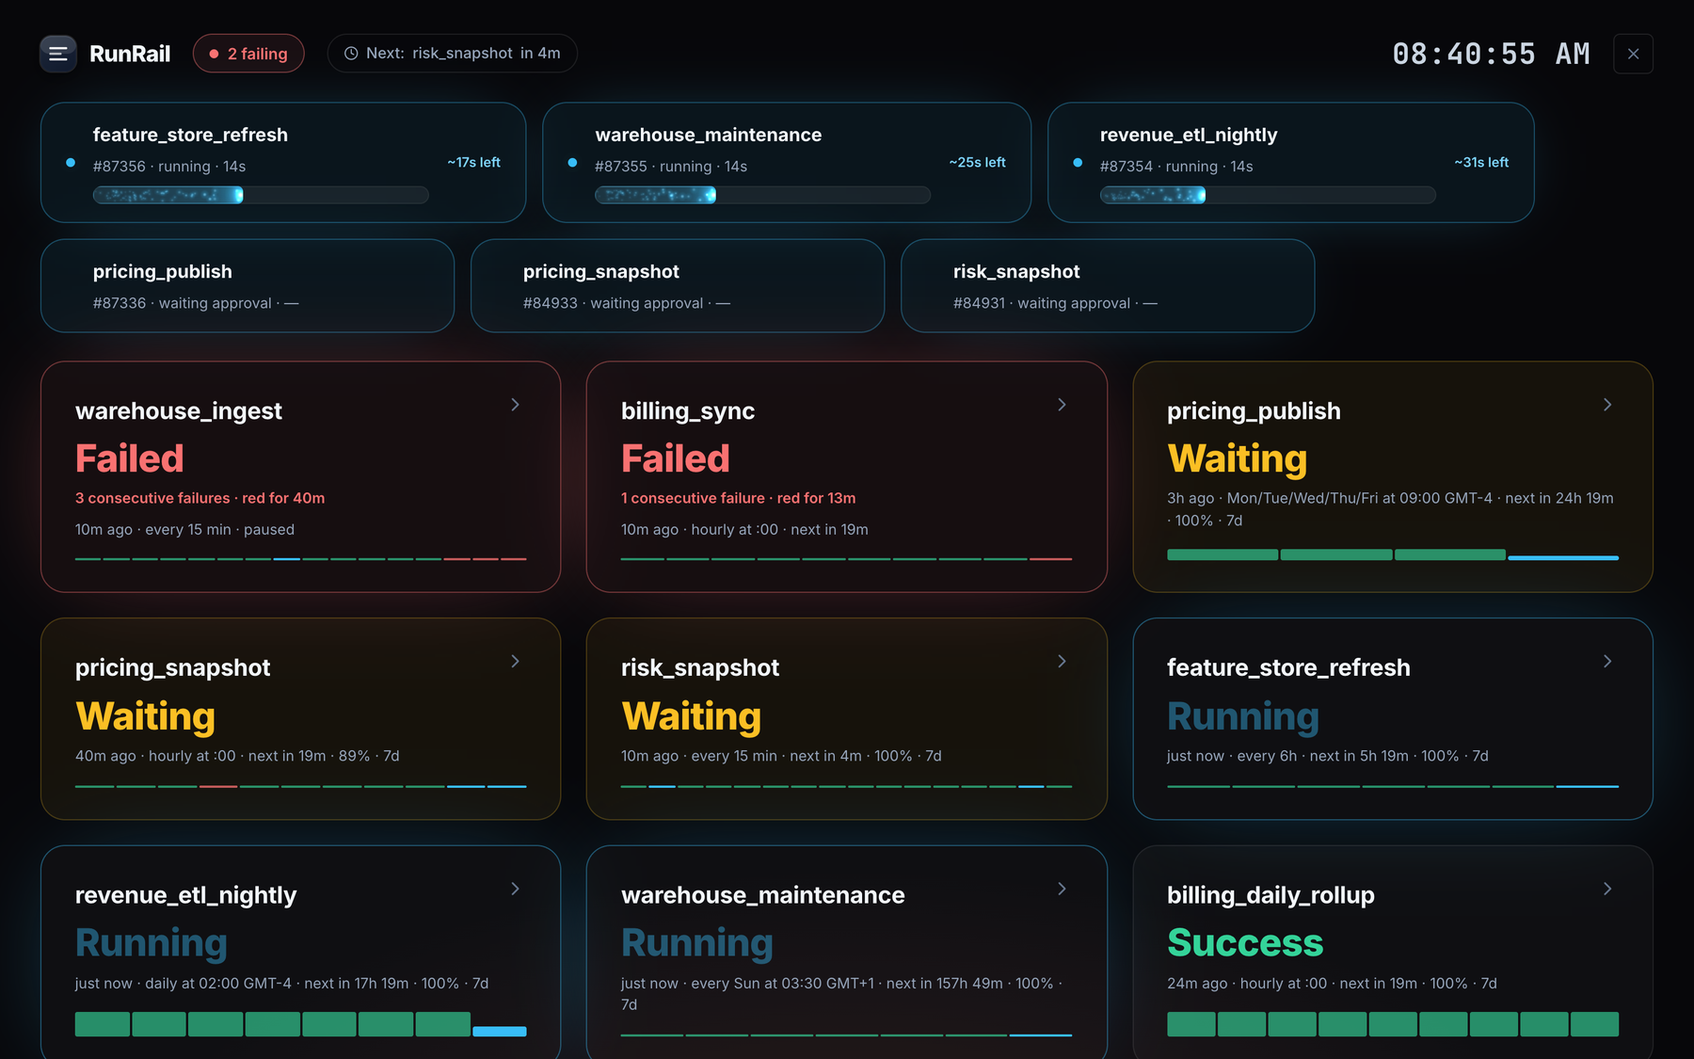
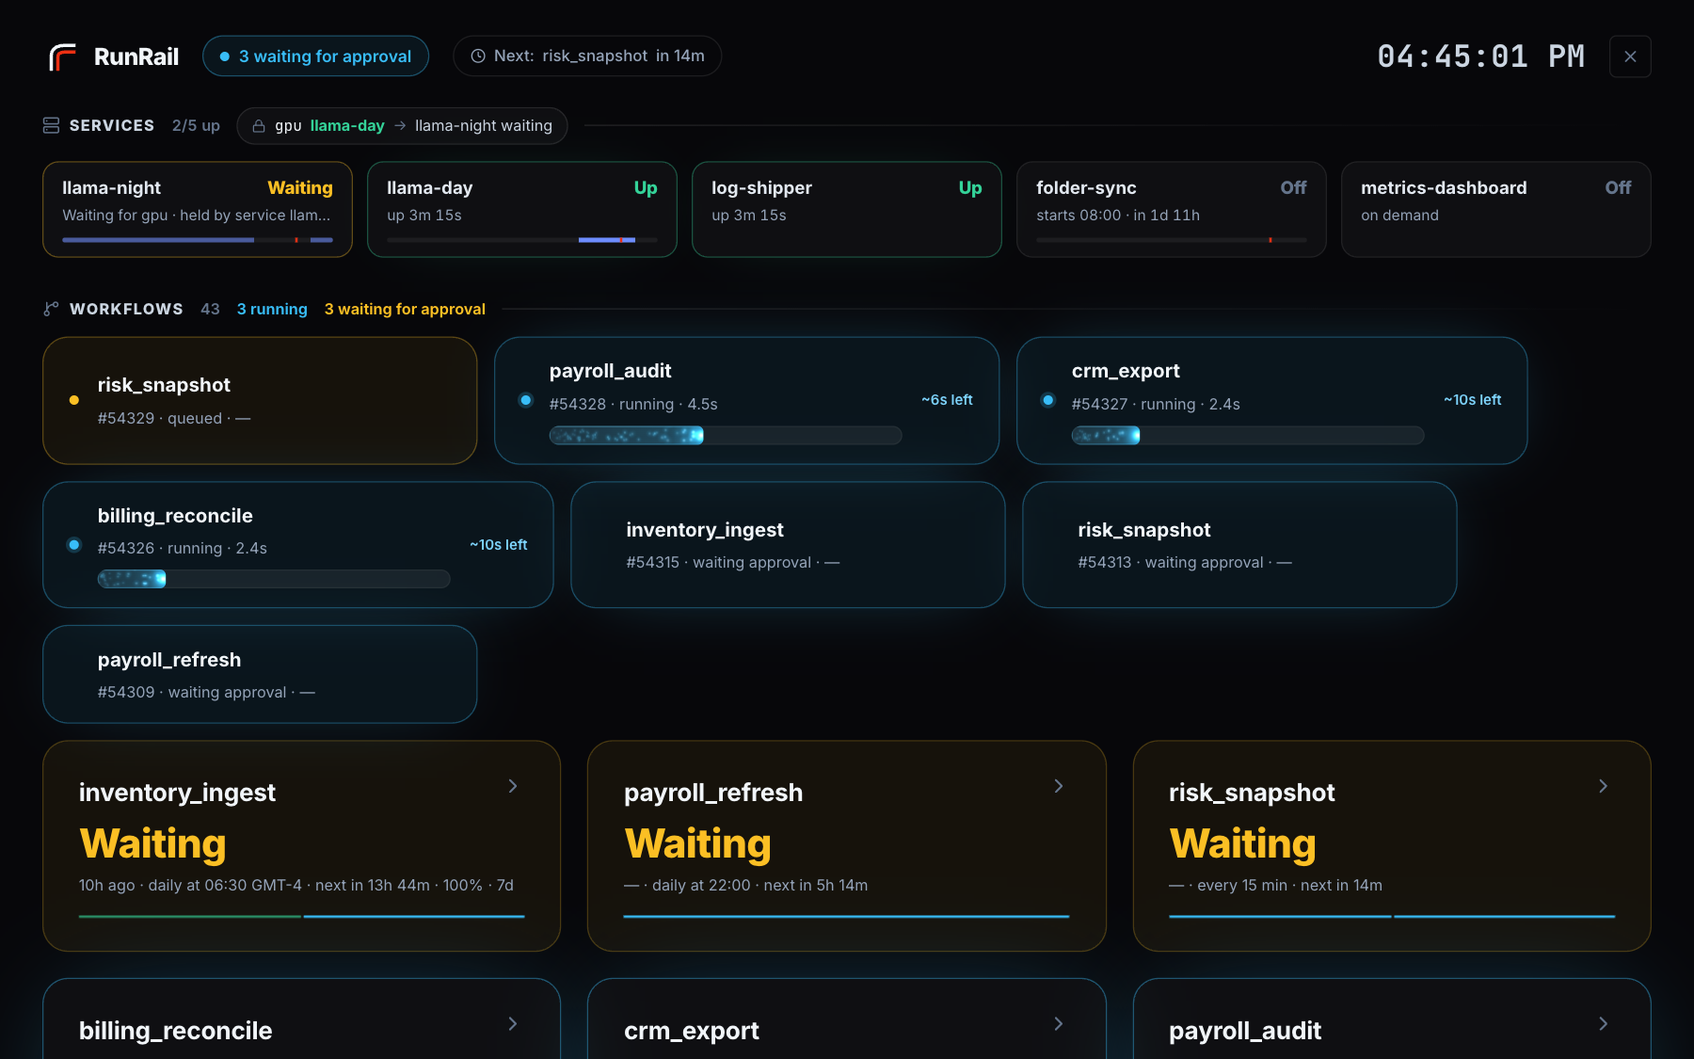
docs: services in the README, and a demo home that really runs
The README said nothing about services, and the demo GIF and screenshots
predated them, so the headline of 0.7.0 was invisible on GitHub and PyPI. It
now introduces a service beside a task, has a paragraph among the parts that
matter, two screenshots (the Services page and one service with its week,
live log and history), a line on the supervisor under Architecture, and the
`runrail api` caveat under Worth knowing. Test counts updated; the browser
tests are mentioned.

The seeder changed in two ways that make a served demo honest:

- Every seeded command pointed at /opt/pipelines, which does not exist, so
  the moment `runrail serve` opened a seeded home every fire failed and the
  board filled with red. The seeder now writes stand-in pipeline scripts into
  the project and the commands call those, with a --seconds matching each
  task's share of the workflow's seeded duration — so live bars fill on time
  and the logs are real.
- The live tail was seeded as `running`, which the worker's startup recovery
  marks failed at once. It is queued now, from the quicker workflows, and the
  worker starts it for real within a second.

It also seeds five services with a week of history: two model servers taking
turns on one GPU, a folder sync with a lunch break, an always-on log shipper
and an on-demand dashboard, each running a small script that logs the way the
real program would.

New demo GIF (906 KB, down from 4.3 MB) and dashboard, wallboard, Services
[…]

diff --git a/scripts/seed_demo.py b/scripts/seed_demo.py
@@ -280,12 +280,12 @@ def _live_plans(rng: random.Random, specs: list[dict], current: datetime) -> lis
     Appended last so they are the newest rows whatever order the workflows came
     in, and the approval gate is put on a workflow that actually has one.
 
-    Running runs start at a fraction of their own typical duration. The
-    wallboard draws progress as elapsed over the median of recent runs, so a
-    tail that started a uniform "few minutes ago" sits past 100% on every bar
-    and paints the whole strip amber — a board that cries wolf about every run
-    at once. One overrun is kept on purpose: past-median is a state the
-    wallboard has a treatment for, and the demo should show it. Once.
+    Nothing here is seeded as `running`: the worker marks a running row it did
+    not start as failed the moment it comes up, so a served home opened with a
+    seeded running tail began life with a row of red tiles. The tail is queued
+    instead, and the worker starts it within a second of `runrail serve` — for
+    real, against the stand-in pipelines — which is what makes the bars move.
+    Drawn from the quicker workflows so the pool is free again soon after.
     """
     from runrail.models import RunStatus, TriggerType
 
@@ -302,17 +302,11 @@ def _live_plans(rng: random.Random, specs: list[dict], current: datetime) -> lis
         }
 
     plans = []
-    # Readable bars need runs that last: draw the running tail from the slower
-    # half of the fleet, at spread-out points of their typical duration.
-    slow = sorted(specs, key=lambda spec: spec["base_seconds"])[len(specs) // 2:]
-    for spec, fraction in zip(rng.sample(slow, min(4, len(slow))), (0.35, 0.55, 0.8, 1.2),
-                              strict=False):  # a tiny fleet seeds fewer than four
-        started = current - timedelta(seconds=spec["base_seconds"] * fraction)
-        plans.append(row(spec, RunStatus.running, started - timedelta(seconds=2), started))
     # Queued means "a worker will take this within seconds", not minutes: a
     # queued run that is minutes old says the workers are wedged.
-    for spec in rng.sample(specs, min(3, len(specs))):
-        created = current - timedelta(seconds=rng.randint(4, 75))
+    quick = [spec for spec in specs if spec["base_seconds"] <= 45] or specs
+    for spec in rng.sample(quick, min(4, len(quick))):
+        created = current - timedelta(seconds=rng.randint(2, 20))
         plans.append(row(spec, RunStatus.queued, created, None))
     # People are slower than workers; a gate open for many minutes is honest.
     gated = [spec for spec in specs if spec["gated"]]
@@ -377,6 +371,32 @@ def _task_row(run_id: int, task_id: int, status, started: datetime,
         # Filled by one UPDATE once the ids these paths are built from exist.
         "stdout_log_path": None, "stderr_log_path": None,
     }
+
+
+_PIPELINE_SCRIPT = '''"""Stand-in for the {name} step: logs like one and takes about as long as one."""
+import argparse, random, time
+parser = argparse.ArgumentParser()
+parser.add_argument("--ds"); parser.add_argument("--seconds", type=float, default=2)
+args = parser.parse_args()
+rows = random.randint(2_000, 90_000)
+print(f"INFO  starting {name} for ds={{args.ds}}", flush=True)
+steps = max(1, int(args.seconds))
+for n in range(steps):
+    time.sleep(args.seconds / steps)
+    print(f"INFO  checkpoint {{n + 1}}/{{steps}} · {{rows * (n + 1) // steps}} rows", flush=True)
+print(f"INFO  {name} finished · {{rows}} rows", flush=True)
+'''
+
+
+def write_pipeline_scripts(directory: Path) -> None:
+    """One runnable stand-in per task name. Every seeded command points at one
+    of these, so a home opened with ``runrail serve`` executes its workflows
+    for real — the logs, the durations and the live board are then the real
+    thing, not labels — instead of failing every fire on a path that does not
+    exist."""
+    directory.mkdir(parents=True, exist_ok=True)
+    for name in TASK_NAMES:
+        (directory / f"{name}.py").write_text(_PIPELINE_SCRIPT.format(name=name))
 
 
 def log_path(logs_root: Path, run_id: int, task_run_id: int, stream: str) -> Path:
@@ -460,6 +480,143 @@ def apply_operator_state(db, rng: random.Random, specs: list[dict], current: dat
     db.commit()
 
 
+#: What each stand-in service prints: a banner once, then one of its lines
+#: every few seconds. Enough for a live log to look like one.
+SERVICE_SCRIPTS = [
+    ("llama_server.py",
+     "llama-server listening on http://0.0.0.0:8081 · model loaded in 4.2s · 48 layers on GPU",
+     ["POST /v1/chat/completions 200 · 412 prompt + 96 completion tokens · 38.4 tok/s",
+      "POST /v1/chat/completions 200 · 1280 prompt + 310 completion tokens · 35.1 tok/s",
+      "POST /v1/embeddings 200 · 64 inputs · 11ms",
+      "slot 0 released · kv cache 23% used"], 4),
+    ("folder_sync.py", "watching //fileserver/shared -> /mnt/nas/shared (1,284 files in sync)",
+     ["changed  finance/Q3-forecast.xlsx (2.1 MB) -> copied in 0.4s",
+      "created  design/brand/logo-v7.ai (18.3 MB) -> copied in 2.9s",
+      "deleted  tmp/~$budget.xlsx -> removed on NAS",
+      "idle · next full scan in 15m"], 3),
+    ("log_shipper.py",
+     "tailing /var/log/warehouse/*.log -> https://siem.internal/ingest (batch 500, flush 5s)",
+     ["shipped 500 events in 212ms · lag 0.8s",
+      "shipped 497 events in 189ms · lag 0.6s",
+      "rotated: warehouse.log -> warehouse.log.1, reopened",
+      "shipped 500 events in 240ms · lag 1.1s"], 5),
+    ("dashboard.py", "Streamlit app running at http://localhost:8501",
+     ["GET / 200 · 41ms", "cache hit: load_orders (ttl 300s)",
+      "GET /_stcore/stream · session a91f opened", "GET /_stcore/health 200"], 6),
+]
+
+_SERVICE_SCRIPT = '''"""A stand-in for the real program: prints what it would print, forever."""
+import itertools, signal, sys, time
+signal.signal(signal.SIGTERM, lambda *_: sys.exit(0))  # stop politely when asked
+LINES = {lines!r}
+print({banner!r}, flush=True)
+for i in itertools.count():
+    time.sleep({every})
+    print(time.strftime("%H:%M:%S"), LINES[i % len(LINES)], flush=True)
+'''
+
+
+def seed_services(db, rng: random.Random, project, environment, current: datetime) -> int:
+    """A handful of services with a few days of history each: two model servers
+    taking turns on one GPU, a folder sync with a lunch break, a log shipper
+    that is simply always on, and an on-demand dashboard somebody stopped.
+
+    The commands are real: each runs a stand-in that prints what the program would, so
+    once ``runrail serve`` opens this home the supervisor starts them and the
+    Services page shows live state and output rather than seeded labels. The
+    model servers' windows are placed around the current hour (in UTC) so the
+    daytime one is running now and the night one starts in about two hours.
+    """
+    from runrail.models import (
+        LockMode,
+        RestartPolicy,
+        Service,
+        ServiceSession,
+        ServiceStartMode,
+        ServiceState,
+        ServiceStopReason,
+    )
+
+    # Stand-in programs in the project folder, so the commands read like the
+    # real thing and the live log shows what such a service would say. `python`
+    # resolves to the demo environment's interpreter, which the supervisor puts
+    # first on PATH.
+    scripts = Path(project.root_path) / "services"
+    scripts.mkdir(parents=True, exist_ok=True)
+    for name, banner, lines, every in SERVICE_SCRIPTS:
+        (scripts / name).write_text(_SERVICE_SCRIPT.format(banner=banner, lines=lines, every=every))
+
+    every_day = ["mon", "tue", "wed", "thu", "fri", "sat", "sun"]
+    weekdays = every_day[:5]
+    hour = current.hour
+    day_start, day_end = f"{(hour - 3) % 24:02d}:00", f"{(hour + 2) % 24:02d}:00"
+    services = [
+        dict(name="llama-day", description="Qwen 7B behind the team chat UI",
+             command="python services/llama_server.py --model models/qwen2.5-7b-q5.gguf --port 8081",
+             start_mode=ServiceStartMode.schedule, timezone="UTC",
+             windows_json=[{"days": every_day, "start": day_start, "end": day_end}],
+             lock_resource="gpu", lock_mode=LockMode.exclusive, stop_timeout_seconds=180),
+        dict(name="llama-night", description="Qwen 72B for the overnight batch jobs",
+             command="python services/llama_server.py --model models/qwen2.5-72b-q4.gguf "
+                     "--port 8081 --ctx 32768",
+             start_mode=ServiceStartMode.schedule, timezone="UTC",
+             windows_json=[{"days": every_day, "start": day_end, "end": day_start}],
+             lock_resource="gpu", lock_mode=LockMode.exclusive, stop_timeout_seconds=300),
+        dict(name="folder-sync", description="Mirrors the shared drive to the NAS",
+             command="python services/folder_sync.py //fileserver/shared /mnt/nas/shared --watch",
+             start_mode=ServiceStartMode.schedule, timezone="UTC",
+             windows_json=[{"days": weekdays, "start": "08:00", "end": "12:30"},
+                           {"days": weekdays, "start": "13:30", "end": "17:30"}]),
+        dict(name="log-shipper", description="Tails the warehouse logs into the SIEM",
+             command="python services/log_shipper.py --source /var/log/warehouse "
+                     "--sink https://siem.internal/ingest",
+             start_mode=ServiceStartMode.startup),
+        dict(name="metrics-dashboard", description="Streamlit board for the ops channel",
+             command="python services/dashboard.py --port 8501",
+             start_mode=ServiceStartMode.manual, restart_policy=RestartPolicy.never),
+    ]
+    rows = []
+    for spec in services:
+        rows.append(Service(**spec, project_id=project.id, environment_id=environment.id,
+                            state=ServiceState.stopped, restart_requested=False,
+                            created_at=current - timedelta(days=30), updated_at=current))
+    db.add_all(rows)
+    db.flush()
+
+    # History: the shape each service's life has had over the past week.
+    sessions = []
+    for service in rows:
+        for days_ago in range(7, 0, -1):
+            day = (current - timedelta(days=days_ago)).replace(minute=0, second=0, microsecond=0)
+            if service.start_mode == ServiceStartMode.schedule:
+                for window in service.windows_json:
+                    start_h = int(window["start"][:2])
+                    length = (int(window["end"][:2]) - start_h) % 24 or 24
+                    started = day.replace(hour=start_h)
+                    sessions.append(ServiceSession(
+                        service_id=service.id, started_at=started,
+                        stopped_at=started + timedelta(hours=length, minutes=rng.randint(0, 3)),
+                        pid=rng.randint(2000, 60000), exit_code=0,
+                        stop_reason=ServiceStopReason.window_closed, command=service.command))
+            elif service.start_mode == ServiceStartMode.startup and days_ago in (7, 3):
+                started = day.replace(hour=9)
+                sessions.append(ServiceSession(
+                    service_id=service.id, started_at=started,
+                    stopped_at=started + timedelta(days=4 if days_ago == 7 else 3, hours=-1),
+                    pid=rng.randint(2000, 60000), exit_code=None,
+                    stop_reason=ServiceStopReason.runrail_shutdown, command=service.command))
+            elif service.start_mode == ServiceStartMode.manual and days_ago in (6, 2):
+                started = day.replace(hour=14)
+                sessions.append(ServiceSession(
+                    service_id=service.id, started_at=started,
+                    stopped_at=started + timedelta(hours=rng.randint(2, 5)),
+                    pid=rng.randint(2000, 60000), exit_code=0,
+                    stop_reason=ServiceStopReason.stopped_by_user, command=service.command))
+    db.add_all(sessions)
+    db.commit()
+    return len(rows)
+
+
 def main(argv: list[str] | None = None) -> int:
     args = parse_args(argv)
     rng = random.Random(args.seed)
@@ -520,10 +677,14 @@ def main(argv: list[str] | None = None) -> int:
         for spec in specs:
             spec["id"] = ids_by_name[spec["name"]]
 
+        write_pipeline_scripts(Path(project.root_path) / "pipelines")
         insert_rows(db, Task, [{
             "workflow_id": spec["id"], "project_id": project.id,
             "environment_id": environment.id, "name": name, "task_type": TaskType.shell,
-            "command": f"python /opt/pipelines/{name}.py --ds {{{{ ds }}}}",
+            # Runs for about the share of the workflow's typical duration this
+            # task has in the seeded history, so a live bar fills on time.
+            "command": (f"python pipelines/{name}.py --ds {{{{ ds }}}} "
+                        f"--seconds {max(1, round(spec['base_seconds'] / len(spec['task_names'])))}"),
             "depends_on_json": [spec["task_names"][position - 1]] if position else [],
             "retries": 1, "retry_delay_seconds": 60,
             "requires_approval": spec["gated"] and position == len(spec["task_names"]) - 1,
@@ -579,6 +740,7 @@ def main(argv: list[str] | None = None) -> int:
         apply_operator_state(db, rng, specs, current)
         files, written = write_logs(db, logs_root, rng, args.log_files, args.log_lines)
         say(f"  notes {len(noted)}  log files {files} ({written // 1024} KiB)")
+        say(f"  services {seed_services(db, rng, project, environment, current)}")
 
     say(f"Seeded {home} in {time.monotonic() - clock:.1f}s")
     return 0

diff --git a/README.md b/README.md
@@ -13,7 +13,7 @@ Give the scripts, notebooks and queries you already have schedules, retries, app
 
 ![Live wallboard](https://raw.githubusercontent.com/rutr-labs/runrail/main/docs/img/demo.gif)
 
-*The wallboard. Each bar runs against that workflow's own median duration and turns amber when a run goes over.*
+*The wallboard: services along the top, then every workflow. Each run's bar is measured against that workflow's own median duration and turns amber when it goes over.*
 
 A task in RunRail is a command:
 
@@ -22,6 +22,14 @@ python scripts/refresh_sales.py --date {{ ds }}
 ```
 
 That is the whole configuration. Nothing is imported into your code, and there is no DAG file to keep in sync with it. RunRail runs that command on a schedule, in a Python environment you declare, and keeps the logs, the timings and the history.
+
+A service is a command RunRail keeps running instead:
+
+```bash
+llama-server -m models/qwen2.5-7b-q5.gguf --port 8081
+```
+
+Started with RunRail, inside weekly windows, or by hand; restarted if it crashes; stopped politely when its window closes; and able to take turns with your workflows on a shared GPU.
 
 ## Sixty seconds to a first run
 
@@ -63,6 +71,8 @@ A few workflows later, the dashboard looks like this:
 
 **Some things should wait for a person.** Mark a task as needing approval and the run parks there, showing the prompt and the exact command it is about to run. It gives up its worker thread while it waits, so a gate left open overnight holds nothing else up.
 
+**Some things should stay up rather than finish.** A model server, a folder sync, a dashboard. A service runs on RunRail's startup, inside weekly windows (any number, overnight included), or on demand, with a live log and a history of every start and stop. A crashing one is restarted with a growing delay and held after five crashes in ten minutes, with a notification. Two model servers on an exclusive `gpu` lock take turns, and a GPU workflow waits for whichever one is running, because nothing in RunRail interrupts anything else.
+
 **Notebooks come out the other end as reports.** An executed notebook renders to HTML on the run page, charts and tables included. `/reports/<workflow>/latest` always resolves to the newest successful run, so a link you shared last month still shows this morning's numbers.
 
 Also in the box: retries and backfills, per-workflow concurrency, resource locks so two jobs never enter the same database at once, snooze, auto-pause after repeated failures, deadlines that alert while a run is still going, per-task duration trends, notes on a run, webhooks for Slack and Microsoft Teams, YAML export and apply, and a REST API with live docs at `/docs`.
@@ -76,6 +86,14 @@ A run in progress. Independent tasks overlap on the timeline, and every attempt 
 A run waiting on approval, showing the prompt from whoever built the workflow and the command about to execute.
 
 ![Approval gate](https://raw.githubusercontent.com/rutr-labs/runrail/main/docs/img/05-approval.png)
+
+Services. Each card says what the process is doing and why, in the supervisor's own words: up and until when, waiting for a resource and who holds it, stopped by you and when its schedule takes over again.
+
+![Services](https://raw.githubusercontent.com/rutr-labs/runrail/main/docs/img/06-services.png)
+
+One service, with its schedule as a week, its live log, and every start and stop it has had.
+
+![A service](https://raw.githubusercontent.com/rutr-labs/runrail/main/docs/img/07-service.png)
 
 ## Install
 
@@ -95,7 +113,7 @@ Rendering notebooks as HTML reports needs an extra: `pipx install "runrail[noteb
 
 ## How it fits together
 
-**Projects** point at the directories your code lives in. **Environments** say how Python runs: a managed virtualenv built from pip requirements, an interpreter you already have, or a Conda environment. **Workflows** group **tasks** into a dependency graph with an optional schedule.
+**Projects** point at the directories your code lives in. **Environments** say how Python runs: a managed virtualenv built from pip requirements, an interpreter you already have, or a Conda environment. **Workflows** group **tasks** into a dependency graph with an optional schedule. **Services** are single commands kept running, using the same projects and environments.
 
 Environments resolve per task, then per workflow, then per project. Python and notebook tasks will not fall back to RunRail's own interpreter. That is deliberate: your dependencies are not its dependencies.
 
@@ -143,6 +161,8 @@ FastAPI serves the API and the prebuilt React UI. APScheduler is used purely as 
 
 A bounded worker pool (`RUNRAIL_WORKER_CONCURRENCY`) claims queued runs atomically, so different workflows execute at the same time and a long job never blocks a frequent one. Runs of the same workflow are serialised by its `max_concurrent_runs`. Inside a run, the task graph executes with real parallelism (`RUNRAIL_TASK_PARALLELISM`).
 
+Services have a supervisor of their own, beside the worker. Once a second it compares each service's process with what the service should be doing (its mode, its windows, any Start or Stop you pressed) and starts, stops, restarts or waits accordingly. It holds a lease in the database, so with `serve` and a separate `worker` running only one of them manages services, and a supervisor taking over from one that died first stops whatever that one left running.
+
 All of it happens on one machine, using threads and subprocesses. There are no remote workers.
 
 SQLite in WAL mode is the default. For PostgreSQL, set `RUNRAIL_DB_URL=postgresql+psycopg://user:password@host:5432/runrail`; the `+psycopg` matters, because a bare `postgresql://` looks for psycopg2, which isn't installed. CI runs the whole suite against both. Logs live under `$RUNRAIL_HOME/logs/`, artifacts under `$RUNRAIL_HOME/artifacts/<id>/`, timestamped so retries never overwrite each other.
@@ -172,6 +192,7 @@ Schedules evaluate in each workflow's own timezone, so "daily at 9:00" stays 9:0
 - It's built for one person on one machine. There are no accounts and no roles, by choice rather than omission. If you expose the port beyond localhost, put something in front of it that handles authentication, and narrow `RUNRAIL_BROWSE_ROOT` while you're there.
 - Work runs on a single machine. Plenty happens in parallel there, but there are no remote workers.
 - SQL tasks run against SQLite only.
+- Services are managed by `runrail serve` or `runrail worker`. `runrail api` on its own shows them but starts and stops nothing, and the Services page says so.
 - Environment variables, including anything secret, are stored unencrypted in the database.
 - Log search is a bounded grep rather than an index. Every limit is capped and the response says which cap it hit, so a partial answer never looks like a complete one.
 - Missed-run history is recomputed from the current schedule, so editing a cron expression redraws the past under the new one.
@@ -180,13 +201,14 @@ Schedules evaluate in each workflow's own timezone, so "daily at 9:00" stays 9:0
 
 ```bash
 pip install -e '.[dev,notebook]'
-pytest                                        # 277 backend tests
+pytest                                        # 379 backend tests
 ruff check src tests
 
 cd frontend
 npm install
 npm run build     # needed from a clone; the built UI is gitignored, not committed
-npm test          # 143 frontend tests
+npm test          # 165 frontend tests
+npm run test:e2e  # browser tests against a real `runrail serve` (needs the build above)
 ```
 
 The frontend tests check cron previews against fire times generated by the backend's own scheduler, so if the UI ever promises a run time the scheduler wouldn't produce, the build fails. `scripts/seed_demo.py` fills a throwaway home with a realistic history if you want something to look at.
